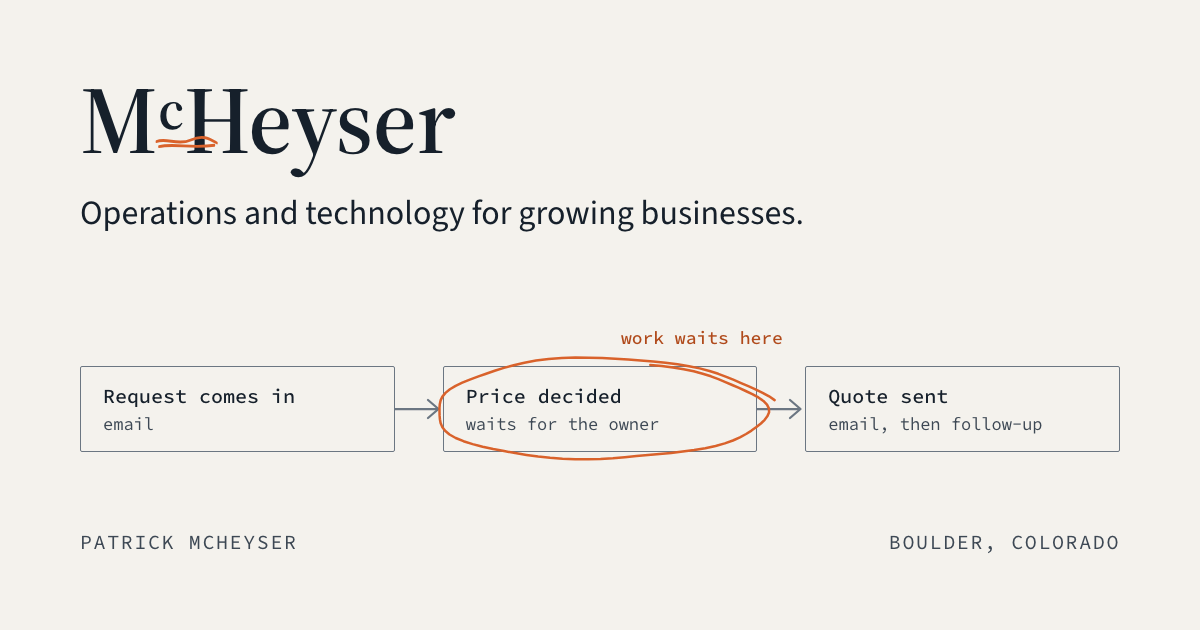
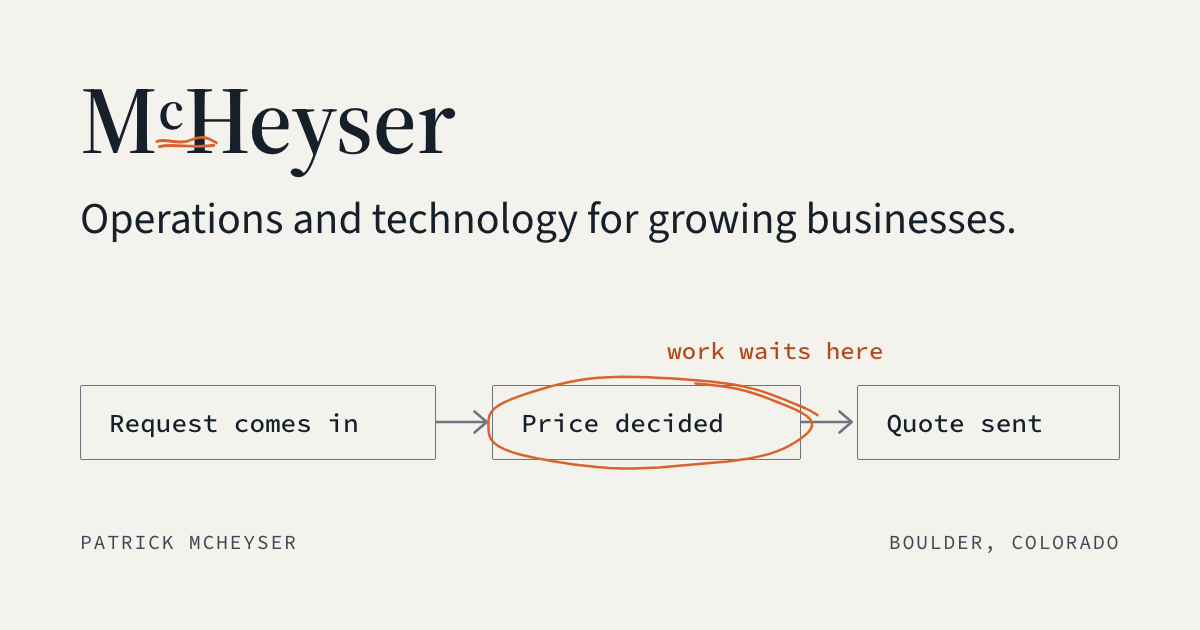
Diagrams: equal-height, text-sized nodes only in the hero row
The stretch and content-based sizing meant for Fig. 1 made the centre
node of Fig. 3 and the three nodes of Fig. 6 as tall as the stacks beside
them. Scope both rules to a row of nodes only (flow--even); other rows keep
equal widths.

Changed region(s): [[0.3392, 0.5127, 0.8633, 0.754], [0.0617, 0.3016, 0.8325, 0.3921], [0.0617, 0.6032, 0.3083, 0.6937]]

diff --git a/components/diagrams/QuoteFlow.tsx b/components/diagrams/QuoteFlow.tsx
@@ -8,7 +8,7 @@ export function QuoteFlow() {
       caption="A quote, as it moves through a business. In this example, the work waits for a pricing decision. Illustrative."
       description="Five steps in a row. A request comes in by email. Job details are gathered and re-typed into a spreadsheet. A price is decided, which waits for the owner; in this example that step is circled with the note 'work waits here'. The quote is written in a Word template. The quote is sent by email, then followed up."
     >
-      <Flow annotated>
+      <Flow annotated className="flow--even">
         <Node label="Request comes in" where="email" />
         <Connector />
         <Node label="Job details gathered" where="re-typed into a spreadsheet" />

diff --git a/styles/components.css b/styles/components.css
@@ -501,16 +501,20 @@
     min-width: 0;
   }
 
-  /* Nodes size to their text and share the slack; a row's boxes are all one height. */
   .flow > .node {
+    flex: 1 1 0;
+    min-width: 0;
+  }
+
+  /* A row of nodes only (Fig. 1): boxes size to their text, share the slack, and are one height. */
+  .flow--even > .node {
     display: flex;
     flex: 1 1 auto;
     flex-direction: column;
     align-self: stretch;
-    min-width: 0;
   }
 
-  .flow > .node > .node__box {
+  .flow--even > .node > .node__box {
     flex: 1 1 auto;
   }
 

diff --git a/pages/OgPage.tsx b/pages/OgPage.tsx
@@ -9,7 +9,7 @@ export default function OgPage() {
         <Wordmark size="display" asText />
         <p className="og__tag">Operations and technology for growing businesses.</p>
       </div>
-      <Flow annotated>
+      <Flow annotated className="flow--even">
         <Node label="Request comes in" />
         <Connector />
         <Node label="Price decided" marked annotation="work waits here" />
